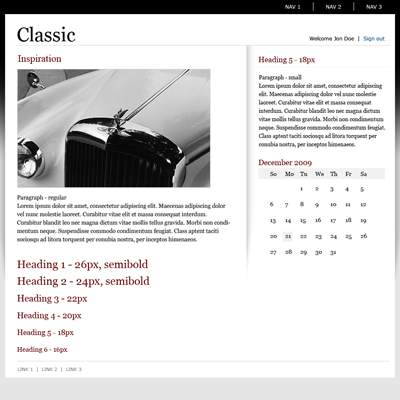
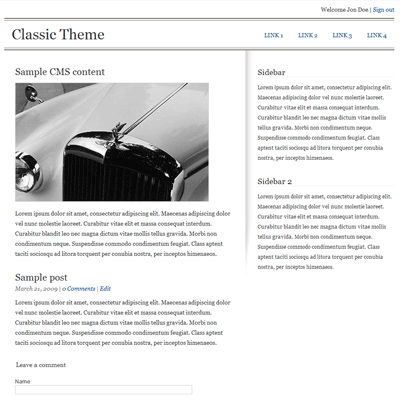
Updated the classic theme.
--HG--
branch : dev

diff --git a/src/Orchard.Web/Themes/Classic/Styles/site.css b/src/Orchard.Web/Themes/Classic/Styles/site.css
@@ -20,29 +20,31 @@ html {height: 100%;}
 
 body {
 	font: normal 90% "Georgia", Times New Roman, Times, serif;
-	background:url(../Content/Images/bodyBackgroundgrey.gif) top left repeat-x #e5e5e5;
 	height: 100%;
 	text-align:left;
-	color:#333;
+	color:#373737;
+	background:#fdfdfd;
+	/*background:#E5E5E5 url(../Content/Images/bodyBackgroundgrey.gif) repeat-x scroll left top;*/
 }
 
 /* ---------- Headings and defaults ---------- */
 
-h1,h2,h3,h4,h5,h6, legend {font-weight:normal; font-style: normal; color:#670404; border-bottom:1px dotted #e5e5e5;}
+h1,h2,h3,h4,h5,h6,legend {font-weight:normal; font-style: normal; margin:12px 0 4px 0;}
 
-h1 {font-size: 190%;}
+h1 {font-size: 180%;}
 h2 {font-size: 160%;}
-h3 {font-size: 150%;}
+h3 {font-size: 145%;}
 h4 {font-size: 130%;}
 h5 {font-size: 120%;}
 h6 {font-size: 105%;}
 
+h1.sitename {border-bottom:none;}
+
 p {line-height:24px; margin:12px 0 32px 0;}
-p.small {line-height:22px; font-size:85%;}
+p.small {line-height:24px; font-size:85%;}
 
 a {
 	color:#004386;
-	color:#05325f;
 	text-decoration:none;
 }
 
@@ -53,17 +55,17 @@ ol.decimal {list-style:decimal; list-style-position:inside; line-height:24px; ma
 /* Forms
 ----------------------------------------------------------*/
 
-input[type="text"], #CommentText, #password {
-    border:1px solid #DDDEDF;
+input[type="text"], #CommentText, #password, #confirmPassword {
+    border:1px solid #cacec6;
     display: block;
-}
-
-fieldset {margin: 20px 0;}
+    padding:2px;
+    width:90%;
+    }
 
 fieldset div {margin:16px 0 0 0}
     
 legend {
-	font-size: 105%;
+	font-size: 110%;
 	border:none;
 }
 
@@ -72,18 +74,12 @@ label {
     margin:0 0 2px 0;
     }
 
-input[type="text"], #CommentText, #password {
-    border-color:#cacec6;
-    padding:2px;
-    width:90%;
-    }
-
 input[type="checkbox"] {
     margin:2px 0 20px 10px;
 }
 
 input[type="submit"], input[type="button"], .button {
-	font:90% Verdana, Geneva, Tahoma, sans-serif;
+	font: normal 90% "Georgia", Times New Roman, Times, serif;
 	color:#333;
     padding:2px 14px;
     display: block;
@@ -97,112 +93,182 @@ input[type="submit"], input[type="button"], .button {
 }
 
 
+/* Tables
+----------------------------------------------------------*/
+table {
+	background:#fff;
+	border:1px solid #f1f1f1;
+	border-collapse:collapse;
+	width:100%;
+}
+
+table thead, table th {
+	overflow:hidden;
+	text-align:left;
+}
+
+table th {
+	font:70% Verdana, Geneva, Tahoma, sans-serif;
+	background-color:#69625e;
+	color:#f1f1f1;
+	}
+	
+table caption {
+	padding:8px 0;
+	text-indent:0;
+}
+
+table col {
+	display:table-column;
+}
+
+table colgroup {
+	display:table-column-group;
+	}
+
+table tbody {
+	vertical-align:middle;
+	}
+
+
+th, td {
+	font:70% Verdana, Geneva, Tahoma, sans-serif;
+	padding:6px
+	}
+
+td.even {
+	background-color:#f1f1f1;
+}
+
 /* ---------- Layout ---------- */
 
+#headercontainer {
+	border:2px solid #69625e;
+	border-left:0;
+	border-right:0;
+	margin:0 auto;
+	width:930px;
+}
+
 #header {
-	margin:0 38px 0 40px;
-	height:75px;
-	border-bottom:1px #d6d6d6 solid;
-}
+	border:1px solid #69625e;
+	border-left:0;
+	border-right:0;
+	margin:3px 0 3px 0;
+	}
 
-
-#header h1{
+#header h1 {
+	font-size:240%;
+	color:#333;
+	border:0;
+	margin:12px 18px;
 	float:left;
-	font-size:220%;
-	color:#000;
-	padding:42px 0 0 0;
-	border-bottom:none;
 }
+
 
 #logindisplay {
-	float:right;
-	margin:58px 8px 0 0;
+	font:80%;
+	margin:12px auto;
+	text-align:right;
+	width: 930px;
 }
 
 #wrapper {
 	width:985px;
-	height:100%;
 	display:block;
 	margin:0em auto;
-	background:url(../Content/Images/mainBackgroundgrey.png) no-repeat center top;
+	background:#fff;
+	border:1px solid #f1f1f1;
 }
 
 #main {
-	clear:both;
-	margin:32px 0 0 27px;
+	margin:0 0 0 27px;
 	width:930px;
-	border:1px #f5f5f5 solid;
-	border-top:none;
 	background:url(../Content/Images/sidebarBackground.gif) no-repeat right top #fff;
 }
 
 
 #content {
 	float:left;
-	margin:0 0 0 27px;
+	margin:26px 0 0 27px;
 	width:520px;
 	min-height:555px;
 }
 
 #sidebar {
 	float:right;
-	margin:4px 12px 0 0;
+	margin:28px 0 0 0;
 	width:325px;
 }
 
 #sidebar h3 {
-	border-bottom:1px dotted #e5e5e5;
+	border-bottom:1px solid #f1f1f1;
+	font-size: 130%;
 }
 
-
-#content ul,#sideBar1 ul {
-	list-style:none;
-	line-height:normal;
+#footercontainer {
+	clear:both;
+	border:2px solid #69625e;
+	width:930px;
+	background:#69625e;
+	margin:18px 0;
 }
 
 #footer {
-	color:#918e8e;
-	clear:both;
-	border-top:1px solid #d6d6d6;
-	margin:0 12px;
-	padding:18px 0 18px 8px;
+	border:1px solid #fff;
+	margin:3px;
 }
 
 #footer a{
-	color:#918e8e;
-	margin:0 8px;
+	text-transform:uppercase;
+	color:#fff;
 }
+
 
 /* ---------- Navigation ---------- */
 
-#menucontainer {
-	width:960px;
+.menucontainer {
 	display:block;
-	height:35px;
-	margin:0em auto;
-}
-
-#menucontainer ul, #footer ul {
-	list-style:none;
 	float:right;
+	margin:18px 0;
 }
 
-#menucontainer ul li {
+.menucontainer ul, #footer ul {
+	list-style:none
+}
+
+.menucontainer ul li {
 	margin:8px 0 0 0;
 	float:left;
-	background:url(../Content/Images/navDivider.gif) no-repeat top right;
-}
-
-#menucontainer ul li.last {
-	background:none;
-}
-
-#menucontainer ul li a {
-	margin:0 18px 0 18px;
-	font-size:110%;
-	display:block;
-	text-decoration:none;
-	float:left;
-	color:#fff;
 	}
 
+.menucontainer ul li a {
+	margin:0 18px 0 18px;
+	display:block;
+	text-decoration:none;
+	text-transform:uppercase;
+	float:left;
+}
+
+#footer .menucontainer {
+	font-size:80%;
+	float:left;
+	margin:0px;
+}
+
+#footer .menucontainer ul li {
+	margin:12px 0;
+}
+
+/* ---------- Tags and Comments ---------- */
+.tags, .comment {
+	font-style:italic;
+	color:#666666;
+}
+
+
+/* ---------- Generic ---------- */
+
+.clearBoth {
+	clear:both;
+}

diff --git a/src/Orchard.Web/Themes/Classic/Styles/blog.css b/src/Orchard.Web/Themes/Classic/Styles/blog.css
@@ -1,31 +1,21 @@
 /*Blog specific styles
 ----------------------------------------------------------*/
 
-.posted {
-    margin: 8px 0;
-    font-size:105%;
-    font-weight:600;
+h3.blogs, h3.blog {
+    display:block;
+    border-bottom:1px solid #f1f1f1;
 }
 
-.meta, .manage {
-    font-size:105%;
-    float:right;
-    margin:-23px 0 0 0;
-}
-
-.blogdescription, .postsummary {
+ul.blogs p {
     clear:both;
-    }
-   
-div.comment {
-    margin: 16px 0 8px 0;
 }
-    
-span.who {
-    font-weight:600;
-    font-size:105%;
- }
- 
- .text {
-    border-bottom:1px dotted #e5e5e5;
- }
+
+.post {
+	margin: -8px 0 12px 0px;
+}
+
+.meta {
+	font-style:italic;
+	color:#666666;
+}
+
